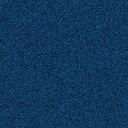
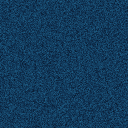
Fix water.png seamless tiling: use integer-period noise octaves
Previous generation used px*2.3 as the second octave frequency — a
non-integer multiplier that broke the seamless wrap at texture boundaries,
causing visible seams between adjacent water tiles. Both octaves now use
the same (px, py, SIZE) period with different seeds.

Claude-Session: https://claude.ai/code/session_01RQafXtrM8SbzeC7wakw1ge

diff --git a/games/swarms/files/js/config.js b/games/swarms/files/js/config.js
@@ -1,4 +1,4 @@
-export const BUILD_TIME = 'v71 21/06/2026 17:33';
+export const BUILD_TIME = 'v73 21/06/2026 18:35';
 
 export const COLS = 20;
 export const ROWS = 12;